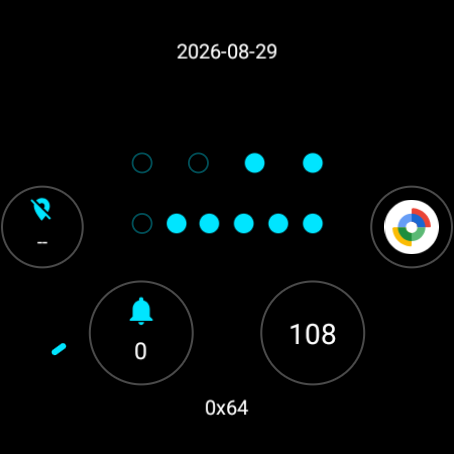
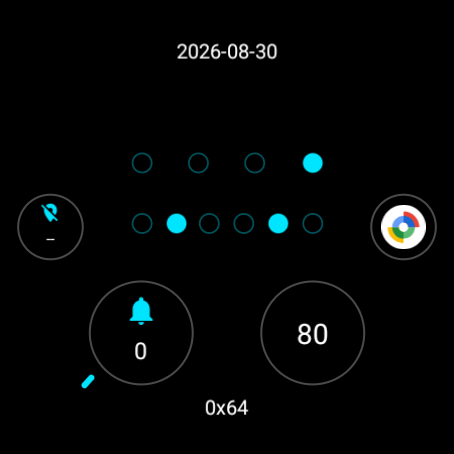
fix(watchface): keep ticks visible beside complications
- Inset the side complication slots so outer tick segments remain visible\n- Add geometry regression coverage and refresh the four-slot store capture

diff --git a/tests/test_generate_watchface.py b/tests/test_generate_watchface.py
@@ -528,11 +528,32 @@ class WatchFaceGeneratorTest(unittest.TestCase):
         )
         self.assertEqual(
             tuple(slots[3].get(attribute) for attribute in ("name", "x", "y", "width", "height")),
-            ("middle_left", "0", "183", "84", "84"),
+            ("middle_left", "16", "191", "68", "68"),
         )
         self.assertEqual(
             tuple(slots[4].get(attribute) for attribute in ("name", "x", "y", "width", "height")),
-            ("middle_right", "366", "183", "84", "84"),
+            ("middle_right", "366", "191", "68", "68"),
+        )
+
+    def test_side_complications_leave_outer_ticks_visible(self) -> None:
+        tick_configuration = self.root.find(
+            f"./Scene/ListConfiguration[@id='{GENERATOR.TICK_STYLE_ID}']"
+        )
+        self.assertIsNotNone(tick_configuration)
+        assert tick_configuration is not None
+        tick_outer_insets = [
+            float(marker.get("y", "0"))
+            for marker in tick_configuration.findall(".//RoundRectangle")
+        ]
+        self.assertTrue(tick_outer_insets)
+
+        side_left, side_right = GENERATOR.COMPLICATION_SLOTS[3:5]
+        outer_margins = (
+            side_left.x,
+            GENERATOR.WATCH_SIZE - side_right.x - side_right.size,
+        )
+        self.assertTrue(
+            all(margin > max(tick_outer_insets) for margin in outer_margins)
         )
 
     def test_complication_slots_clear_the_largest_clock_and_each_other(self) -> None:

diff --git a/tools/generate_watchface.py b/tools/generate_watchface.py
@@ -122,7 +122,8 @@ REFERENCE_ROW_SPAN = 188
 REFERENCE_DOT_SIZE = 23
 DECIMAL_BACKDROP_SIZE = 240
 BATTERY_READOUT_Y = 390
-SIDE_COMPLICATION_SIZE = 84
+SIDE_COMPLICATION_SIZE = 68
+SIDE_COMPLICATION_OUTER_MARGIN = 16
 SIDE_COMPLICATION_Y = (WATCH_SIZE - SIDE_COMPLICATION_SIZE) // 2
 CLOCK_ROW_LAYOUT = {
     False: (150, 210),
@@ -329,8 +330,8 @@ COMPLICATION_SLOTS = (
     ComplicationSlotSpec(0, "lower_left", "slot_lower_left", 87, 277, 106, "STEP_COUNT", "SHORT_TEXT"),
     ComplicationSlotSpec(1, "lower_right", "slot_lower_right", 257, 277, 106, "HEART_RATE", "RANGED_VALUE"),
     ComplicationSlotSpec(2, "lower_center", "slot_lower_center", 190, 264, 70, "NEXT_EVENT", "SHORT_TEXT"),
-    ComplicationSlotSpec(3, "middle_left", "slot_middle_left", 0, SIDE_COMPLICATION_Y, SIDE_COMPLICATION_SIZE, "SUNRISE_SUNSET", "SHORT_TEXT"),
-    ComplicationSlotSpec(4, "middle_right", "slot_middle_right", WATCH_SIZE - SIDE_COMPLICATION_SIZE, SIDE_COMPLICATION_Y, SIDE_COMPLICATION_SIZE, "UNREAD_NOTIFICATION_COUNT", "SHORT_TEXT"),
+    ComplicationSlotSpec(3, "middle_left", "slot_middle_left", SIDE_COMPLICATION_OUTER_MARGIN, SIDE_COMPLICATION_Y, SIDE_COMPLICATION_SIZE, "SUNRISE_SUNSET", "SHORT_TEXT"),
+    ComplicationSlotSpec(4, "middle_right", "slot_middle_right", WATCH_SIZE - SIDE_COMPLICATION_OUTER_MARGIN - SIDE_COMPLICATION_SIZE, SIDE_COMPLICATION_Y, SIDE_COMPLICATION_SIZE, "UNREAD_NOTIFICATION_COUNT", "SHORT_TEXT"),
 )
 
 COMPLICATION_LAYOUTS = {
